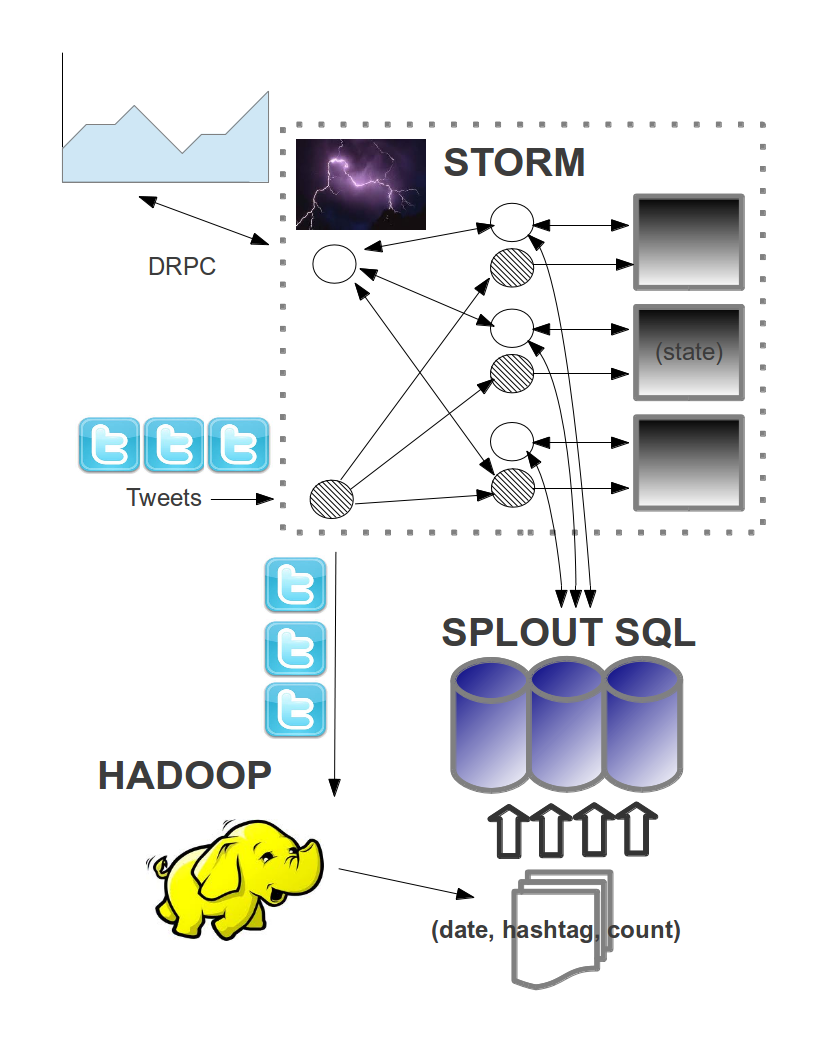
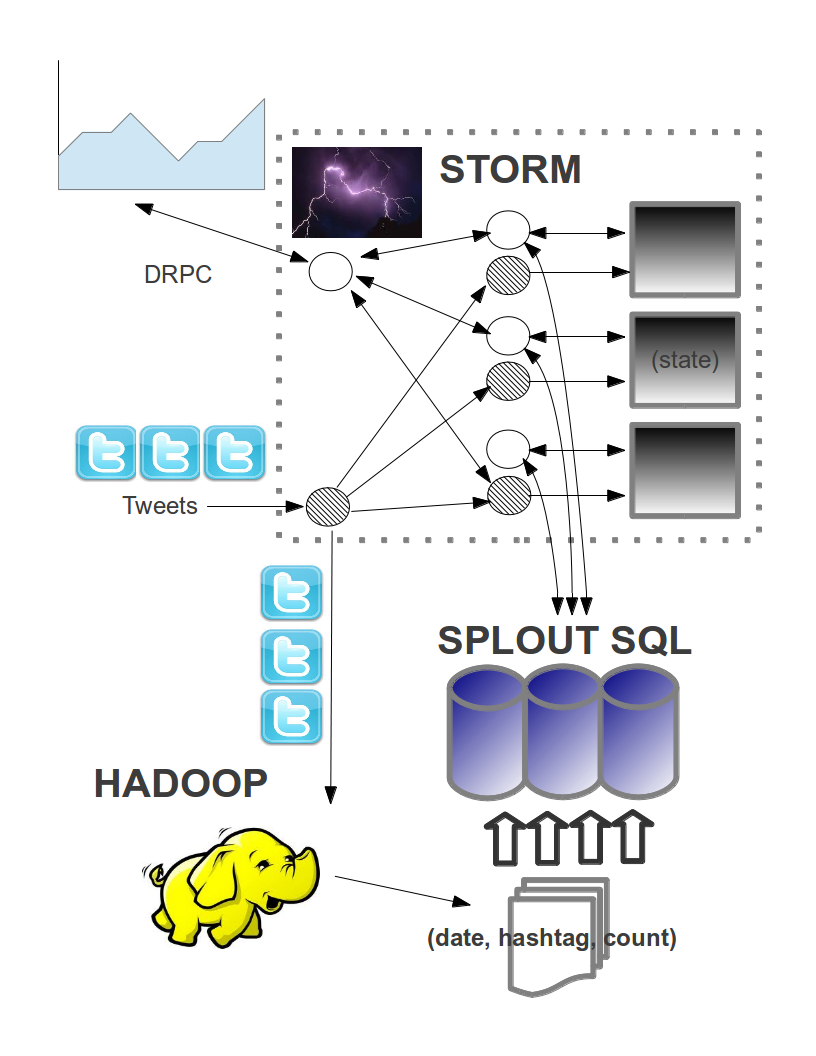
Better diagramas, medium version.

diff --git a/README.md b/README.md
@@ -34,7 +34,7 @@ real-time layer and merge the results.
 
 This is how, conceptually, the overall architecture looks like:
 
-![alt text](https://raw.github.com/pereferrera/trident-lambda-splout/master/TridentSploutArch.png "Trident-Lambda-Splout Hashtag Counts Architecture")
+![alt text](https://raw.github.com/pereferrera/trident-lambda-splout/master/TridentSploutArch-medium.png "Trident-Lambda-Splout Hashtag Counts Architecture")
 
 How to try it
 =============
@@ -47,7 +47,7 @@ must be running. $HADOOP_HOME needs to be defined for Splout SQL.
 2) Batch layer
 
 For trying out this example you must first download Splout SQL an execute a one-node cluster locally.
-You can download a distribution from Maven Central: http://search.maven.org/#browse%7C-1223220252
+You can download a distribution (.tar.gz file) from Maven Central: http://search.maven.org/#browse%7C-1223220252
 After uncompressing it:
 
 	bin/splout-service.sh qnode start
